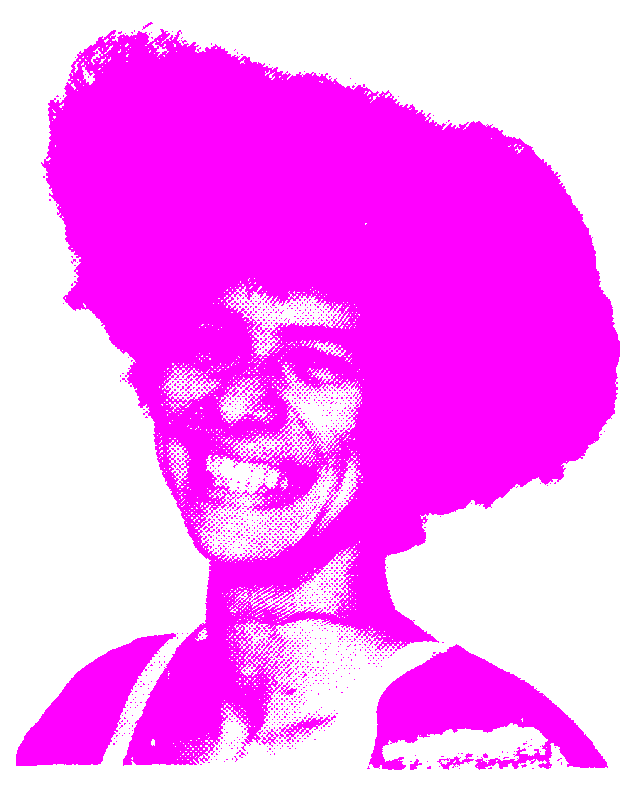
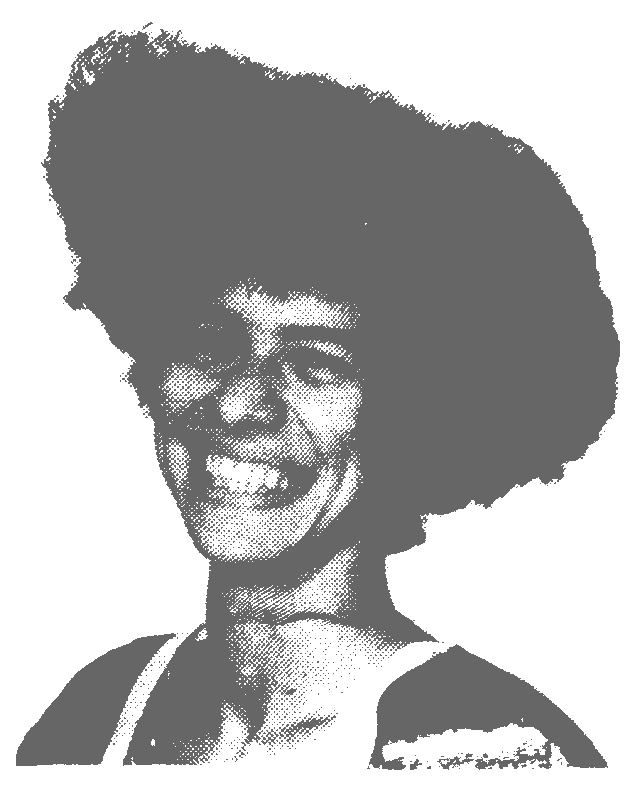
Dona teta cinza e invisível.

diff --git a/index.html b/index.html
@@ -3,11 +3,11 @@
     <title>Teta Lirica</title>
     <meta charset="UTF-8">
   </head>
-  <body bgcolor=yellow>
-    <font color=blue>
+  <body bgcolor=#999999>
+    <font color=#666666>
       <marquee>
       <img src=ｍａｒｉｅ.png>
-      <h1 align=center><font color=pink>&theta;</font>&sung;<font color=pink>&theta;</font>&sung; Teta em construção... <font color=pink>&theta;</font>&sung;<font color=pink>&theta;</font>&sung;</h1>
+      <h1 align=center><font color=#444444>&theta;</font>&sung;<font color=#444444>&theta;</font>&sung; Teta em construção... <font color=#444444>&theta;</font>&sung;<font color=#444444>&theta;</font>&sung;</h1>
       </marquee>
     </font>
   </body>
